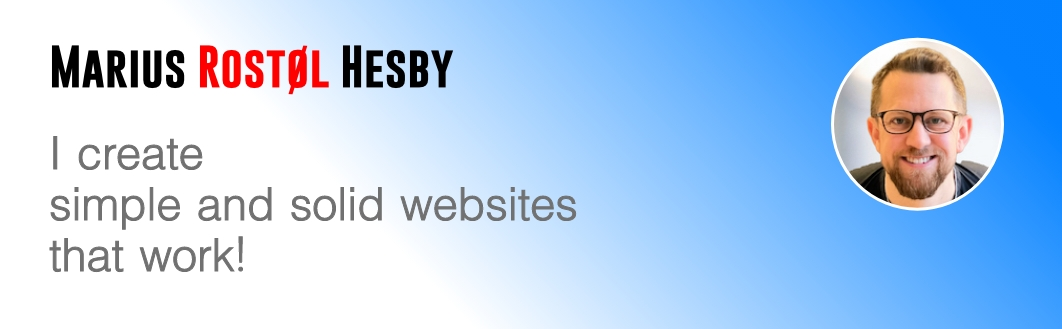
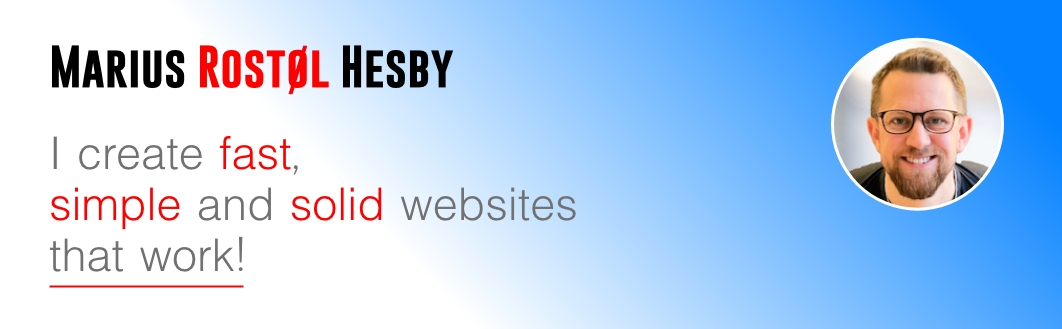
Edited the heading

diff --git a/components/layout/index/IndexHeading.js b/components/layout/index/IndexHeading.js
@@ -5,7 +5,7 @@ export default function IndexHeading() {
   return (
     <div className="h-screen px-5 sm:px-10 grid content-center relative">
       <ProfileImg />
-      <h1>I create<br /><span>simple </span>and <span>solid</span><br /><span>websites</span><br />that work!</h1>
+      <h1>I create<br /><span>fast, </span><span>simple </span>and<span><br />solid </span>websites<br />- that work!</h1>
       <Nav />
     </div>
   );
